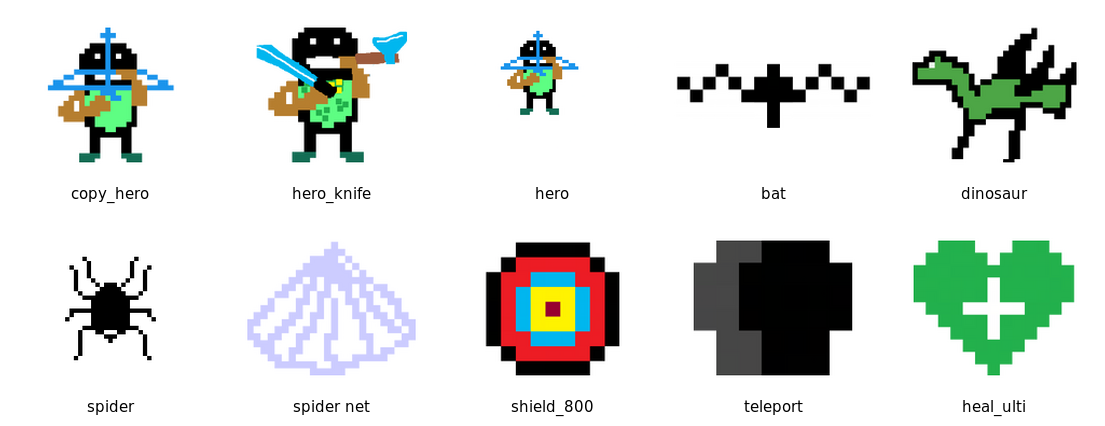
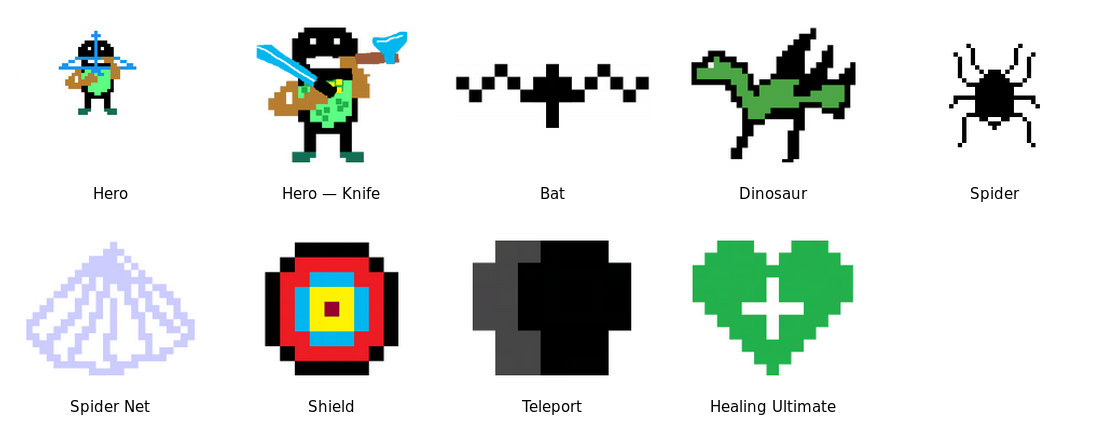
update: README.md

diff --git a/README.md b/README.md
@@ -1,7 +1,7 @@
 # Demon War
 
 <p align="center">
-  <img src="docs/assets-gallery.png" alt="All Demon War character, enemy, effect, and ability assets displayed on a white background" width="100%">
+  <img src="docs/assets-gallery.png" alt="All unique Demon War character, enemy, effect, and ability assets displayed on a white background" width="100%">
 </p>
 
 <p align="center">
@@ -124,13 +124,12 @@ The spider patrols overhead and releases a large falling net every four seconds.
 
 ## Resource Catalogue
 
-The gallery at the top of this README displays all ten visual assets on a white background. Their original files live in [`resources/`](resources). The game rescales source images at draw time, so source resolution and in-game size are intentionally different.
+The gallery at the top of this README displays all nine unique visual assets on a white background. Their original files live in [`resources/`](resources). The game rescales source images at draw time, so source resolution and in-game size are intentionally different.
 
 | Resource | Source resolution | Used for | Runtime status |
 | --- | ---: | --- | --- |
-| [`resources/copy_hero.png`](resources/copy_hero.png) | 389 × 412 | Hero holding the ranged weapon | Active |
 | [`resources/hero_knife.png`](resources/hero_knife.png) | 405 × 361 | Hero in knife mode | Active |
-| [`resources/hero.png`](resources/hero.png) | 960 × 640 | Alternate/original hero artwork | Present but not loaded by the current game state |
+| [`resources/hero.png`](resources/hero.png) | 960 × 640 | Hero holding the ranged weapon | Active character design |
 | [`resources/bat.png`](resources/bat.png) | 242 × 81 | Homing bat enemy | Active |
 | [`resources/dinosaur.png`](resources/dinosaur.png) | 721 × 591 | Charging dinosaur enemy | Active |
 | [`resources/spider.png`](resources/spider.png) | 84 × 96 | Patrolling spider enemy | Active |
